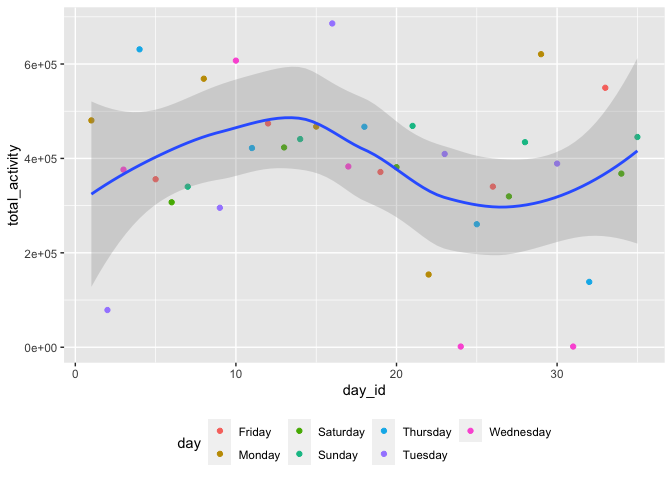
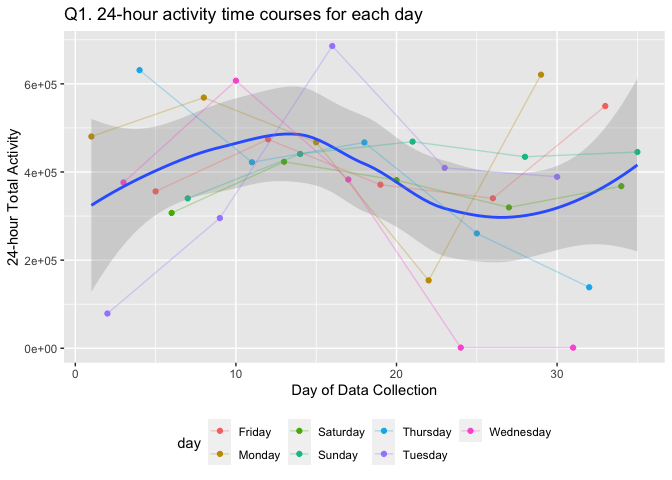
q1 update

diff --git a/p8105_hw3_zz2901.md b/p8105_hw3_zz2901.md
@@ -140,7 +140,12 @@ activity compared to the rest of the week.
 accel_aggregate %>%
   ggplot(aes(x = day_id, y = total_activity)) + 
     geom_point(aes( color = day)) + geom_smooth(alpha=0.3)+
-    theme(legend.position = "bottom")
+    geom_line(aes(color=day),alpha=.3)+
+    theme(legend.position = "bottom")+
+    labs(
+    title = "Q1. 24-hour activity time courses for each day",
+    x = "Day of Data Collection",
+    y = "24-hour Total Activity")
 ```
 
     ## `geom_smooth()` using method = 'loess' and formula 'y ~ x'
@@ -155,7 +160,9 @@ accel_aggregate %>%
         and `geom_smooth()`, we can observe that the subject’s total
         activity fluctuates greatly throughout the 35 days and also days
         fo each week. He seems to have a period with higher activity
-        after one with lower activity and vice versa from the graph.
+        after one with lower activity and vice versa from the graph. The
+        trends of activity for day of the week follow the general trends
+        as shown by the lines created from `geom_line()`.
 
 </span>
 
